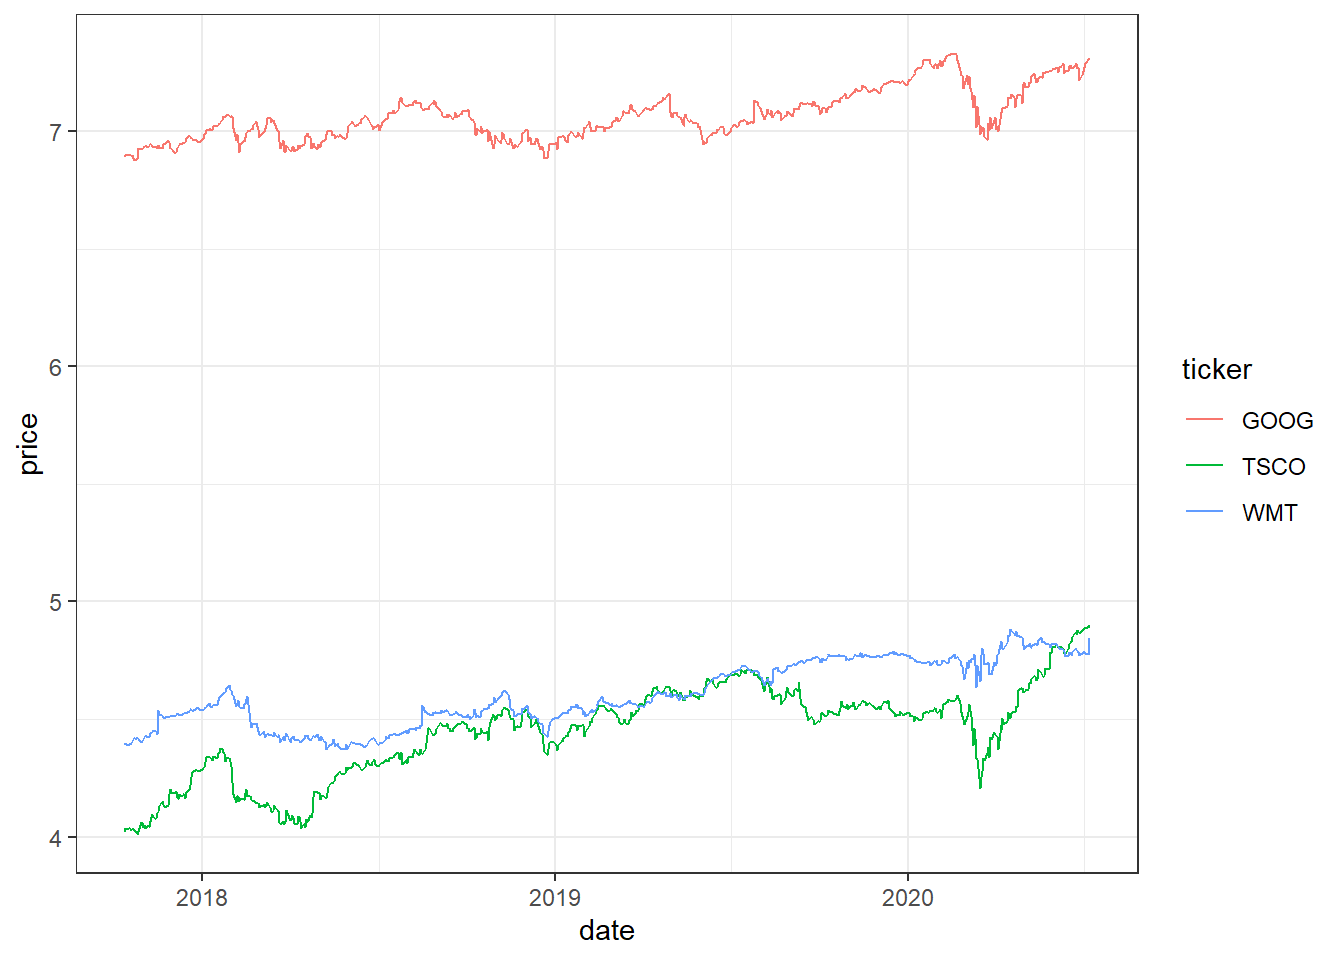
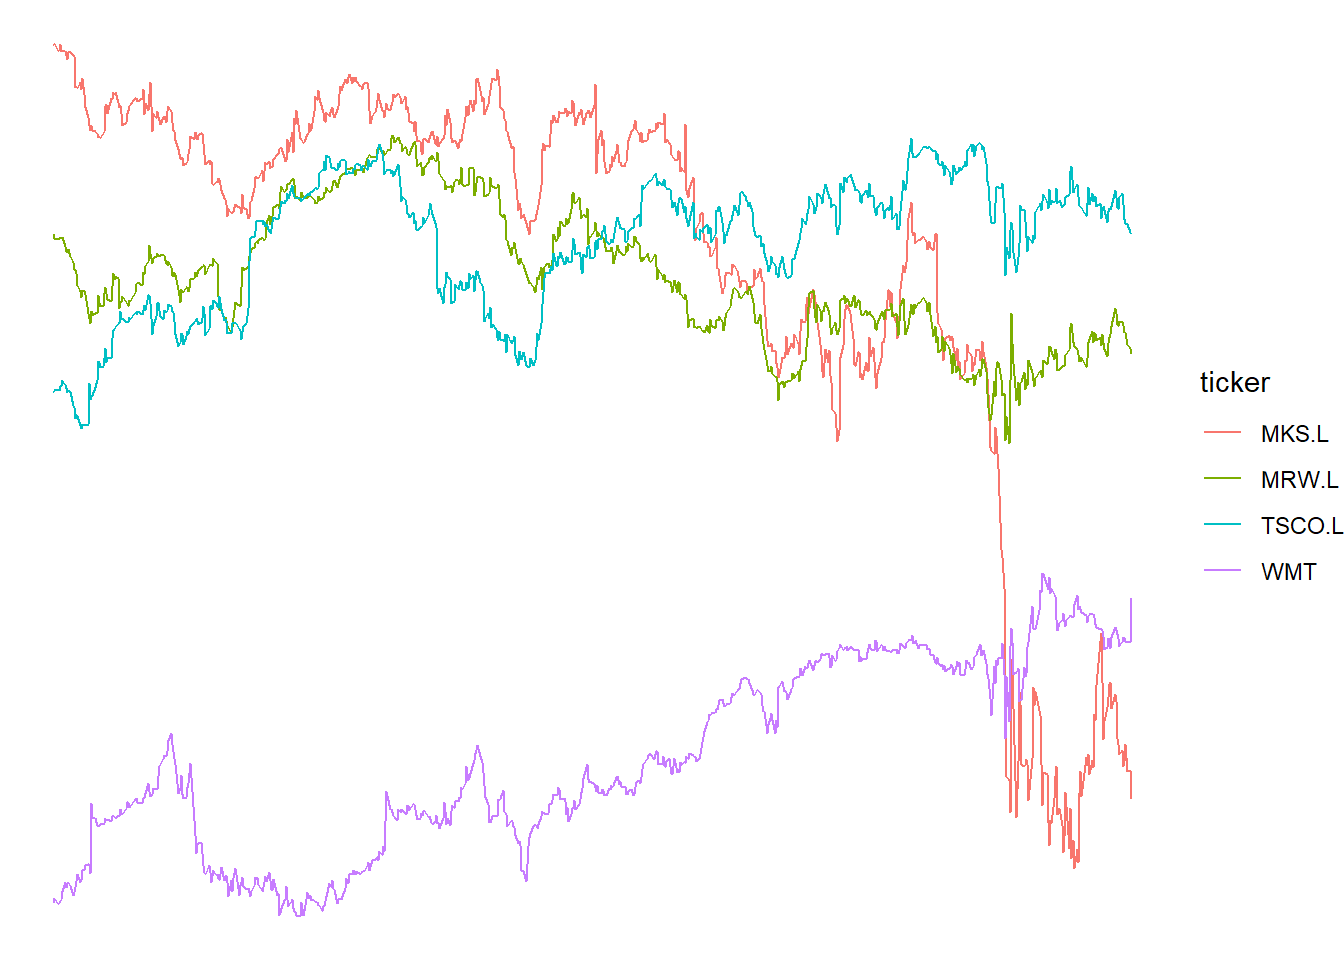
times series

diff --git a/public/2020/07/07/time-series-and-yfinance-api/index.html b/public/2020/07/07/time-series-and-yfinance-api/index.html
@@ -64,7 +64,7 @@
 
   <article class="article">
     
-    <span class="article-duration">3 min read</span>
+    <span class="article-duration">1 min read</span>
     
 
     <h1 class="article-title">Time-series and yfinance api</h1>
@@ -78,72 +78,21 @@
 
 
 <p>Python integration using the reticulate package.</p>
+<p>yFinance api from <a href="https://pypi.org/project/yfinance/" class="uri">https://pypi.org/project/yfinance/</a></p>
+<p>Python exchange rate api from www.exchangerate-api.com</p>
 <pre class="r"><code>library(reticulate)</code></pre>
-<pre><code>## Warning: package &#39;reticulate&#39; was built under R version 4.0.2</code></pre>
 <pre class="python"><code>import yfinance as yf
     
 def yfinance01(ticker,period):
     g = yf.Ticker(ticker)
     data=g.history(period=period)
     return data</code></pre>
-<pre class="r"><code>library(tidyquant)</code></pre>
-<pre><code>## Warning: package &#39;tidyquant&#39; was built under R version 4.0.2</code></pre>
-<pre><code>## Loading required package: lubridate</code></pre>
-<pre><code>## 
-## Attaching package: &#39;lubridate&#39;</code></pre>
-<pre><code>## The following objects are masked from &#39;package:base&#39;:
-## 
-##     date, intersect, setdiff, union</code></pre>
-<pre><code>## Loading required package: PerformanceAnalytics</code></pre>
-<pre><code>## Warning: package &#39;PerformanceAnalytics&#39; was built under R version 4.0.2</code></pre>
-<pre><code>## Loading required package: xts</code></pre>
-<pre><code>## Warning: package &#39;xts&#39; was built under R version 4.0.2</code></pre>
-<pre><code>## Loading required package: zoo</code></pre>
-<pre><code>## Warning: package &#39;zoo&#39; was built under R version 4.0.2</code></pre>
-<pre><code>## 
-## Attaching package: &#39;zoo&#39;</code></pre>
-<pre><code>## The following objects are masked from &#39;package:base&#39;:
-## 
-##     as.Date, as.Date.numeric</code></pre>
-<pre><code>## 
-## Attaching package: &#39;PerformanceAnalytics&#39;</code></pre>
-<pre><code>## The following object is masked from &#39;package:graphics&#39;:
-## 
-##     legend</code></pre>
-<pre><code>## Loading required package: quantmod</code></pre>
-<pre><code>## Warning: package &#39;quantmod&#39; was built under R version 4.0.2</code></pre>
-<pre><code>## Loading required package: TTR</code></pre>
-<pre><code>## Warning: package &#39;TTR&#39; was built under R version 4.0.2</code></pre>
-<pre><code>## Registered S3 method overwritten by &#39;quantmod&#39;:
-##   method            from
-##   as.zoo.data.frame zoo</code></pre>
-<pre><code>## Version 0.4-0 included new data defaults. See ?getSymbols.</code></pre>
-<pre><code>## == Need to Learn tidyquant? =======================================================
-## Business Science offers a 1-hour course - Learning Lab #9: Performance Analysis &amp; Portfolio Optimization with tidyquant!
-## &lt;/&gt; Learn more at: https://university.business-science.io/p/learning-labs-pro &lt;/&gt;</code></pre>
-<pre class="r"><code>library(timetk)</code></pre>
-<pre><code>## Warning: package &#39;timetk&#39; was built under R version 4.0.2</code></pre>
-<pre class="r"><code>library(sweep)</code></pre>
-<pre><code>## Warning: package &#39;sweep&#39; was built under R version 4.0.2</code></pre>
-<pre class="r"><code>library(forecast)</code></pre>
-<pre><code>## Warning: package &#39;forecast&#39; was built under R version 4.0.2</code></pre>
-<pre class="r"><code>library(tidyverse)</code></pre>
-<pre><code>## -- Attaching packages ------------------------------------------ tidyverse 1.3.0 --</code></pre>
-<pre><code>## v ggplot2 3.3.0     v purrr   0.3.4
-## v tibble  3.0.1     v dplyr   0.8.5
-## v tidyr   1.0.3     v stringr 1.4.0
-## v readr   1.3.1     v forcats 0.5.0</code></pre>
-<pre><code>## -- Conflicts --------------------------------------------- tidyverse_conflicts() --
-## x lubridate::as.difftime() masks base::as.difftime()
-## x lubridate::date()        masks base::date()
-## x dplyr::filter()          masks stats::filter()
-## x dplyr::first()           masks xts::first()
-## x lubridate::intersect()   masks base::intersect()
-## x dplyr::lag()             masks stats::lag()
-## x dplyr::last()            masks xts::last()
-## x lubridate::setdiff()     masks base::setdiff()
-## x lubridate::union()       masks base::union()</code></pre>
-<pre class="r"><code>library(bbplot)
+<pre class="r"><code>library(tidyquant)
+library(timetk)
+library(sweep)
+library(forecast)
+library(tidyverse)
+library(bbplot)
 library(lubridate)
 
 
@@ -189,10 +138,10 @@ plotting01 &lt;- function(ticker, period=&quot;max&quot;){
 
 multiplot &lt;- function(..., period = &quot;1mo&quot;){
   x &lt;- list(...)
-  #c(seq(today()-30,by=&quot;day&quot;,length.out = 30))
+  
   y &lt;- data.frame(&quot;date&quot;=c(seq(today()-1000,by=&quot;day&quot;,length.out = 1000)))
   for (val in x){
-    #y &lt;- merge(y,retrieve01(val, period),by=&quot;date&quot;,all=T)
+    
     y &lt;- left_join(y,retrieve01(val, period),by=&quot;date&quot;)
   }
   
@@ -205,12 +154,13 @@ multiplot &lt;- function(..., period = &quot;1mo&quot;){
 
 
 
-multiplot(&quot;WMT&quot;,&quot;GOOG&quot;,&quot;TSCO&quot;, period = &quot;max&quot;) %&gt;% 
+multiplot(&quot;WMT&quot;,&quot;MRW.L&quot;,&quot;TSCO.L&quot;,&quot;MKS.L&quot;, period = &quot;max&quot;) %&gt;% 
   filter(!is.na(price)) %&gt;% 
   mutate(price=log(price)) %&gt;% 
+  
   ggplot(aes(date, price, colour=ticker))+
   geom_line()+
-  theme_bw()</code></pre>
+  theme_void()</code></pre>
 <p><img src="/post/2020-07-07-time-series-and-yfinance-api_files/figure-html/unnamed-chunk-3-1.png" width="672" /></p>
 
     </div>

diff --git a/content/post/2020-07-07-time-series-and-yfinance-api.html b/content/post/2020-07-07-time-series-and-yfinance-api.html
@@ -10,72 +10,21 @@ tags: []
 
 
 <p>Python integration using the reticulate package.</p>
+<p>yFinance api from <a href="https://pypi.org/project/yfinance/" class="uri">https://pypi.org/project/yfinance/</a></p>
+<p>Python exchange rate api from www.exchangerate-api.com</p>
 <pre class="r"><code>library(reticulate)</code></pre>
-<pre><code>## Warning: package &#39;reticulate&#39; was built under R version 4.0.2</code></pre>
 <pre class="python"><code>import yfinance as yf
     
 def yfinance01(ticker,period):
     g = yf.Ticker(ticker)
     data=g.history(period=period)
     return data</code></pre>
-<pre class="r"><code>library(tidyquant)</code></pre>
-<pre><code>## Warning: package &#39;tidyquant&#39; was built under R version 4.0.2</code></pre>
-<pre><code>## Loading required package: lubridate</code></pre>
-<pre><code>## 
-## Attaching package: &#39;lubridate&#39;</code></pre>
-<pre><code>## The following objects are masked from &#39;package:base&#39;:
-## 
-##     date, intersect, setdiff, union</code></pre>
-<pre><code>## Loading required package: PerformanceAnalytics</code></pre>
-<pre><code>## Warning: package &#39;PerformanceAnalytics&#39; was built under R version 4.0.2</code></pre>
-<pre><code>## Loading required package: xts</code></pre>
-<pre><code>## Warning: package &#39;xts&#39; was built under R version 4.0.2</code></pre>
-<pre><code>## Loading required package: zoo</code></pre>
-<pre><code>## Warning: package &#39;zoo&#39; was built under R version 4.0.2</code></pre>
-<pre><code>## 
-## Attaching package: &#39;zoo&#39;</code></pre>
-<pre><code>## The following objects are masked from &#39;package:base&#39;:
-## 
-##     as.Date, as.Date.numeric</code></pre>
-<pre><code>## 
-## Attaching package: &#39;PerformanceAnalytics&#39;</code></pre>
-<pre><code>## The following object is masked from &#39;package:graphics&#39;:
-## 
-##     legend</code></pre>
-<pre><code>## Loading required package: quantmod</code></pre>
-<pre><code>## Warning: package &#39;quantmod&#39; was built under R version 4.0.2</code></pre>
-<pre><code>## Loading required package: TTR</code></pre>
-<pre><code>## Warning: package &#39;TTR&#39; was built under R version 4.0.2</code></pre>
-<pre><code>## Registered S3 method overwritten by &#39;quantmod&#39;:
-##   method            from
-##   as.zoo.data.frame zoo</code></pre>
-<pre><code>## Version 0.4-0 included new data defaults. See ?getSymbols.</code></pre>
-<pre><code>## == Need to Learn tidyquant? =======================================================
-## Business Science offers a 1-hour course - Learning Lab #9: Performance Analysis &amp; Portfolio Optimization with tidyquant!
-## &lt;/&gt; Learn more at: https://university.business-science.io/p/learning-labs-pro &lt;/&gt;</code></pre>
-<pre class="r"><code>library(timetk)</code></pre>
-<pre><code>## Warning: package &#39;timetk&#39; was built under R version 4.0.2</code></pre>
-<pre class="r"><code>library(sweep)</code></pre>
-<pre><code>## Warning: package &#39;sweep&#39; was built under R version 4.0.2</code></pre>
-<pre class="r"><code>library(forecast)</code></pre>
-<pre><code>## Warning: package &#39;forecast&#39; was built under R version 4.0.2</code></pre>
-<pre class="r"><code>library(tidyverse)</code></pre>
-<pre><code>## -- Attaching packages ------------------------------------------ tidyverse 1.3.0 --</code></pre>
-<pre><code>## v ggplot2 3.3.0     v purrr   0.3.4
-## v tibble  3.0.1     v dplyr   0.8.5
-## v tidyr   1.0.3     v stringr 1.4.0
-## v readr   1.3.1     v forcats 0.5.0</code></pre>
-<pre><code>## -- Conflicts --------------------------------------------- tidyverse_conflicts() --
-## x lubridate::as.difftime() masks base::as.difftime()
-## x lubridate::date()        masks base::date()
-## x dplyr::filter()          masks stats::filter()
-## x dplyr::first()           masks xts::first()
-## x lubridate::intersect()   masks base::intersect()
-## x dplyr::lag()             masks stats::lag()
-## x dplyr::last()            masks xts::last()
-## x lubridate::setdiff()     masks base::setdiff()
-## x lubridate::union()       masks base::union()</code></pre>
-<pre class="r"><code>library(bbplot)
+<pre class="r"><code>library(tidyquant)
+library(timetk)
+library(sweep)
+library(forecast)
+library(tidyverse)
+library(bbplot)
 library(lubridate)
 
 
@@ -121,10 +70,10 @@ plotting01 &lt;- function(ticker, period=&quot;max&quot;){
 
 multiplot &lt;- function(..., period = &quot;1mo&quot;){
   x &lt;- list(...)
-  #c(seq(today()-30,by=&quot;day&quot;,length.out = 30))
+  
   y &lt;- data.frame(&quot;date&quot;=c(seq(today()-1000,by=&quot;day&quot;,length.out = 1000)))
   for (val in x){
-    #y &lt;- merge(y,retrieve01(val, period),by=&quot;date&quot;,all=T)
+    
     y &lt;- left_join(y,retrieve01(val, period),by=&quot;date&quot;)
   }
   
@@ -137,10 +86,11 @@ multiplot &lt;- function(..., period = &quot;1mo&quot;){
 
 
 
-multiplot(&quot;WMT&quot;,&quot;GOOG&quot;,&quot;TSCO&quot;, period = &quot;max&quot;) %&gt;% 
+multiplot(&quot;WMT&quot;,&quot;MRW.L&quot;,&quot;TSCO.L&quot;,&quot;MKS.L&quot;, period = &quot;max&quot;) %&gt;% 
   filter(!is.na(price)) %&gt;% 
   mutate(price=log(price)) %&gt;% 
+  
   ggplot(aes(date, price, colour=ticker))+
   geom_line()+
-  theme_bw()</code></pre>
+  theme_void()</code></pre>
 <p><img src="/post/2020-07-07-time-series-and-yfinance-api_files/figure-html/unnamed-chunk-3-1.png" width="672" /></p>
